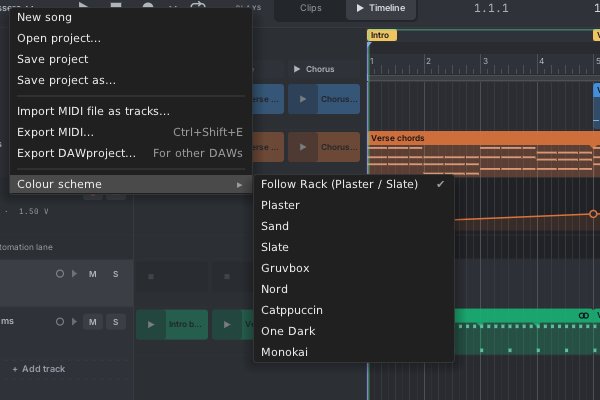
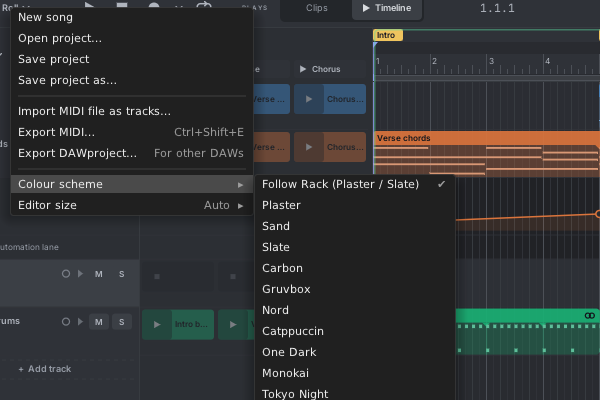
Move Editor size from the module menu to the full editor's Roll menu

diff --git a/src/ui/views/TransportBar.cpp b/src/ui/views/TransportBar.cpp
@@ -18,6 +18,23 @@ namespace tessera {
 
 namespace {
 
+/// The Roll menu's size choice for the full editor: Auto follows Rack's zoom, the rest are fixed sizes.
+void appendEditorSizeItem(rack::ui::Menu* menu, TesseraModule* m) {
+    static const float kEditorScales[] = {0, 0.75f, 1, 1.25f, 1.5f, 1.75f, 2};
+    std::vector<std::string> labels;
+    for (float s : kEditorScales)
+        labels.push_back(s == 0 ? "Auto" : std::to_string(int(s * 100)) + "%");
+    menu->addChild(rack::createIndexSubmenuItem(
+        "Editor size", labels,
+        [m] {
+            for (size_t i = 0; i < std::size(kEditorScales); i++)
+                if (kEditorScales[i] == m->editor().uiScale)
+                    return i;
+            return size_t(0);
+        },
+        [m](size_t i) { m->editor().uiScale = kEditorScales[i]; }));
+}
+
 constexpr float kButton = 28;
 constexpr float kGap = 4;
 constexpr float kGroupGap = 14;
@@ -219,7 +236,7 @@ TransportBar::TransportBar(EditorContext& ctx, std::function<void()> onClose) : 
     // The instance menu: file actions and the colour scheme.
     auto instance = options(Icon::None, "Roll",
                             "Open and save projects, export MIDI and DAWproject files, "
-                            "choose the colour scheme",
+                            "choose the colour scheme and the editor size",
                             [c] {
                                 TesseraModule* m = c->module();
                                 if (!m)
@@ -230,6 +247,7 @@ TransportBar::TransportBar(EditorContext& ctx, std::function<void()> onClose) : 
                                 menu->addChild(new rack::ui::MenuSeparator);
                                 menu->addChild(rack::createSubmenuItem(
                                     "Colour scheme", "", [](rack::ui::Menu* sub) { theme::appendSchemeMenu(sub); }));
+                                appendEditorSizeItem(menu, m);
                             });
     instance.caret = true;
     nameButton = button(instance, nameWidth);

diff --git a/src/ui/TesseraWidget.cpp b/src/ui/TesseraWidget.cpp
@@ -32,7 +32,6 @@ constexpr float kControlRow = 57;
 constexpr float kSceneRow = 72;
 const Vec kEditorButton(77, kControlRow);
 const Vec kEditorButtonSize(15, 7);
-const float kEditorScales[] = {0, 0.75f, 1, 1.25f, 1.5f, 1.75f, 2};
 const int kPanelSizes[] = {EditorState::kPanelMinHp, 48, 80, 120};
 
 // The editor area to the right of the controls (px, panel space).
@@ -283,18 +282,6 @@ struct TesseraWidget : rack::app::ModuleWidget {
             [this, m](size_t i) { resizeTesseraPanel(this, kPanelSizes[i], m->editor().panelHp, true); }));
         menu->addChild(
             rack::createSubmenuItem("Colour scheme", "", [](rack::ui::Menu* sub) { theme::appendSchemeMenu(sub); }));
-        std::vector<std::string> scales;
-        for (float s : kEditorScales)
-            scales.push_back(s == 0 ? "Auto" : std::to_string(int(s * 100)) + "%");
-        menu->addChild(rack::createIndexSubmenuItem(
-            "Editor size", scales,
-            [m] {
-                for (size_t i = 0; i < std::size(kEditorScales); i++)
-                    if (kEditorScales[i] == m->editor().uiScale)
-                        return i;
-                return size_t(0);
-            },
-            [m](size_t i) { m->editor().uiScale = kEditorScales[i]; }));
 
         menu->addChild(new rack::ui::MenuSeparator);
         menu->addChild(rack::createMenuLabel("Instance name"));

diff --git a/docs/manual/02-modules.md b/docs/manual/02-modules.md
@@ -116,7 +116,6 @@ Right-click the Roll panel for these settings.
 | **MIDI input (for recording)** | The MIDI device and channel Roll listens to. |
 | **Panel editor** | Widens the panel to show a small editor in the rack: Off, 48, 80 or 120 HP. See [The editor](03-editor.md#the-editor-inside-the-panel). |
 | **Colour scheme** | The look of the editor and panels. See [The editor](03-editor.md#colour-schemes). |
-| **Editor size** | The size of the full editor: Auto (follows Rack's zoom) or 75% to 200%. |
 | **Instance name** | The name the output modules show. Give each Roll its own name when you use more than one. |
 | **CLOCK output** | The rate of the CLOCK output. |
 | **CLOCK input** | The PPQN of the CLOCK input. |

diff --git a/docs/manual/03-editor.md b/docs/manual/03-editor.md
@@ -193,5 +193,5 @@ In **View ▾** in the notes header, **Name notes with flats** writes Db instead
 
 ## Editor size
 
-Right-click the panel and pick **Editor size** to make the full editor larger or smaller: **Auto** follows Rack's own
+In the full editor, click the **Roll ▾** menu at the top left and pick **Editor size** to make the editor larger or smaller: **Auto** follows Rack's own
 zoom, or choose 75% to 200%.

diff --git a/docs/manual/16-troubleshooting.md b/docs/manual/16-troubleshooting.md
@@ -90,7 +90,7 @@ corner button, or open the **Full editor**.
 
 ## The editor is too small or too big
 
-Right-click the Roll panel and pick **Editor size**.
+Open the full editor, click the **Roll ▾** menu at the top left and pick **Editor size**.
 
 ## Several Rolls: which one does an output module follow?
 
